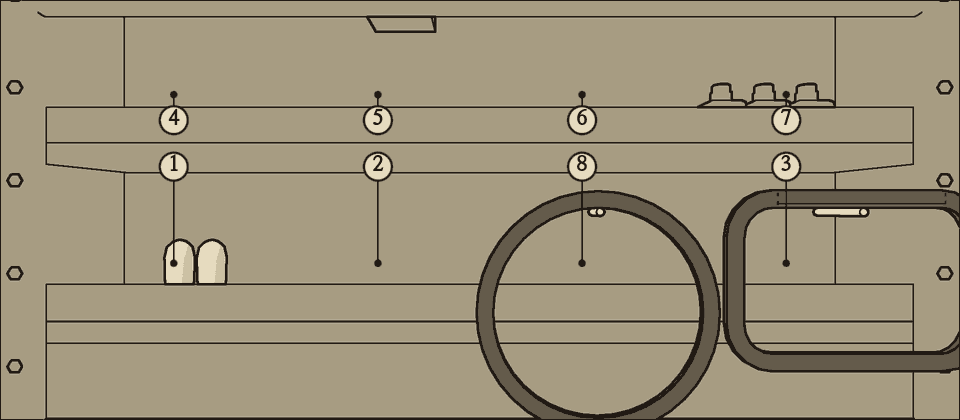
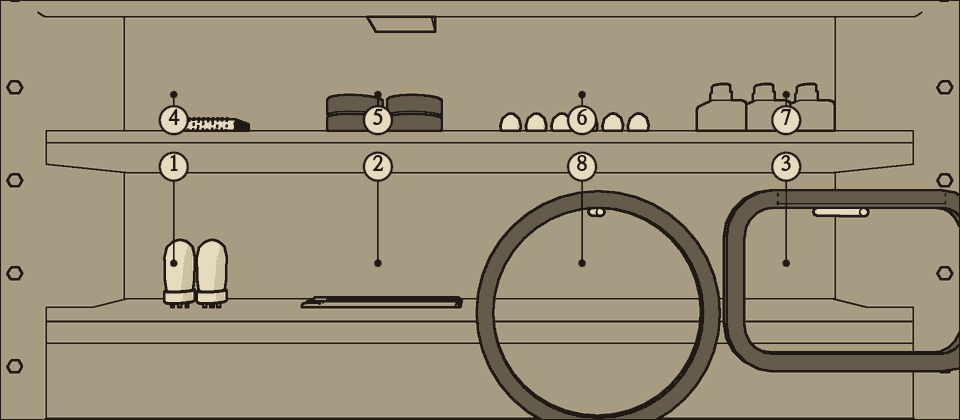
07-top 그림을 고친 '전기 예비품' 벽장으로 다시 찍음, WP26 결정을 DECISIONS로
지문은 물체 자리만 보므로 벽장의 진열이 바뀐 것을 잡지 못했다. 그 한계와 M3로 넘긴 그림을 적는다.

Claude-Session: https://claude.ai/code/session_01LosiMbR2j4drykWSVr7ofK

diff --git a/docs/DECISIONS.md b/docs/DECISIONS.md
@@ -696,3 +696,17 @@ SPEC 0절 규칙 6에 따라, 명세에 없거나 명세와 다르게 정한 것
 16. **일의 기다림이 넘치면 그 일만 그만둔다**: 일에 딸린 기다림(until, retry, 손을 놓은 기다림)이 max를 넘기거나 retry가 `tries`를 넘으면, 솔버는 그 일만 gave_up으로 끝내고 손을 놓는다. 훈련 전체를 Stuck으로 멈추는 것은 일에 딸리지 않은 기다림뿐이다.
 17. **분기함 건조는 김이 걷힌 뒤 시작한다**: 선내 김(`cue.steam.fog` < 0.3)이 걷힐 때까지 첫 단계 앞에서 기다린다. `steam.fog`는 공통 단서다.
 - **Godot 확인 예산**: 인자 없는 `tools/godot-check.sh` 전체를 4분으로 한다(설계는 3분). drills가 열여섯으로 늘어 헤드리스로 약 3분 40~52초 걸린다. 계통별 `drill-<계통>` 묶음은 손동작 표현을 보는 확인이라 기본 실행에 남긴다.
+
+## 2026-10-30 · M2 (WP26 교범 그림, 병렬 세션)
+
+- **교범 그림은 `data/manual/fig/figures.json`의 정의에서만 나온다.** 장면 그림은 임무, 상태 맞추기(명령, 시간, 절차의 일부, 고장 주입), 카메라, 번호의 대상으로 정의한다. 도식(계통도, 배치도, 조이는 순서, 계기)은 데이터에서 그린다. 다시 만들기는 `tools/make-figures.sh`(xvfb, opengl3)이고, Godot의 `figures` 묶음이 정의와 배치가 그림을 만든 때와 같은지 지문으로 본다.
+- **먹선 꼴**: 물체 번호와 법선을 따로 찍어 윤곽선과 꺾임 선을 얻는다. 면은 종이, 옅은, 짙은 세 단계로 칠하고, 장비의 자리와 손이 간 곳은 붉은 먹으로 칠한다. 16색 팔레트 PNG(4비트), 폭 960.
+- **그림 속 글자**: 번호, 칸 번호, 라틴 글자(A, B), 회로 번호, 숫자, 장비 이름만 둔다. 장비 이름은 `data/text/ko`의 이름 키(장소와 계통 부품은 `fig.*`)나 데이터 장치의 명판에서 온다. 번호의 뜻은 그림 아래 마크다운에 쓴다. 한 쪽 안에서 같은 부품은 모든 그림에서 그 쪽 '무엇이 있나' 표의 번호를 쓴다.
+- **비교 그림**: B(고장)의 고장 난 부품은 붉은 먹으로 칠하고 고리로 두른다. 장면에서 차이가 작으면 같은 고장이 드러나는 계기를 비교한다. 차이를 보일 수 없으면 그 비교 그림은 뺀다. A와 B 칸이 같으면 검사가 실패한다.
+- **배치도의 방향**: 위에서 내려다보고, 오른쪽이 이물, 위쪽이 좌현이다. 자르는 높이(1.9m) 위의 장비(천장 팬, 탐조등)는 그 아래 바닥 자리에 번호를 단다.
+- **순서 띠**: 절차를 공구판 왕복까지 펼쳐 손동작으로 하며 찍는다. 칸 번호는 교범 절차의 단계 번호, 붉은 고리는 그 단계 마지막 명령의 물체, 화살표는 그 손동작이다. 카메라는 작업 시점보다 가까운 물체 기준 시점을 주로 쓴다(장비가 옮겨지면 따라간다).
+- **그림 검사는 독자가 보는 것을 본다.** 만들 때 깊이 버퍼로 가림, 번호로 읽히지 않는 화소, 동그라미 자리, 고리가 칸 안인지, 손에 든 도구, A·B 칸의 차이를 본다. 헤드리스 확인은 정의를 다시 셈하고 지문을 견준다.
+- **쪽마다 그림은 셋 이상**(`ManualTests`, 00 차례는 뺀다). 새 교범 쪽을 쓰는 작업 묶음은 같은 길로 그림을 함께 넣는다(`docs/plans/M2-parallel-brief.md`).
+- **교범 화면**: 그림은 교범 폭에 맞춰 줄이되 키우지 않는다. 누르면 화면 가득 크게 보고, Esc나 누르기로 닫는다.
+- **지문의 한계 (합칠 때 본선)**: 지문은 정의, 부르는 물체의 처음 자리(1cm), 도식의 입력만 본다. 모형의 생김새나 물건을 놓는 방식이 바뀌어도 자리가 같으면 낡은 그림을 잡지 못한다. 그래서 WP23b에서 '전기 예비품' 벽장을 고친 뒤 07-top을 본선이 직접 다시 만들었다. 모형이나 진열을 바꾸는 작업은 그 장면이 나오는 그림을 찾아 다시 만든다. 지문에 메시를 넣는 일은 M3의 아트 손질과 함께 본다.
+- **M3로 넘긴 그림**: 22쪽 축압기 순서 띠, 21·38·42·43쪽 가르기 비교, 작은 부품 근접 칸, 08쪽 손에 든 계기, 지시선 배치처럼 읽기 쉬움에 관한 다듬기(`docs/reports/m2-wp26.md`의 '남은 일').
